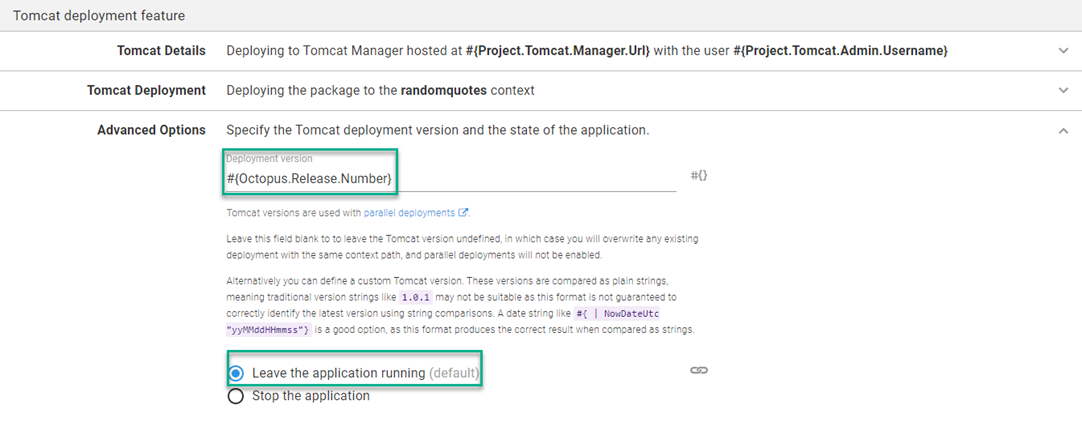
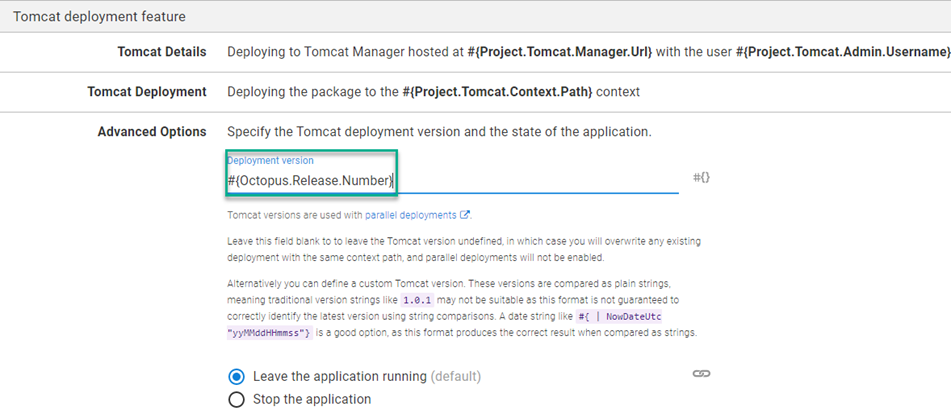
Updated guide.

diff --git a/docs/deployments/patterns/rollbacks/tomcat/index.md b/docs/deployments/patterns/rollbacks/tomcat/index.md
@@ -4,72 +4,76 @@ description: This guide covers the topic of rolling back an application deployed
 position: 10
 hideInThisSectionHeader: true
 ---
-In Tomcat v7, Apache included the ability to do [parallel deployments](https://tomcat.apache.org/tomcat-9.0-doc/config/context.html#Parallel_deployment) which allows you to deploy multiple versions of the same application on a Tomcat server.  This feature will redirect new traffic to the new version of the application allowing existing sessions to expire and naturally flow to the new version.  This functionality is ideally suited for supporting rollback scenarios when deploying to Tomcat.
+This guide will walk through rolling back a Java application deployed to a Tomcat web server.  We will be using the [PetClinic](https://bitbucket.org/octopussamples/petclinic/src/master/) Spring Boot example.  The application consists of two components:
 
-## Configuring an application rollback for Tomcat
-The following guide will configure a code rollback for the Random Quotes application.  The deployment process will consist of the following steps:
-- Calculate Deployment Mode
-- Rollback reason
-- Deploy Random Quotes to Tomcat
-- Start App in Tomcat
-- Stop App in Tomcat
-- Block Release Progression
+- Database
+- Website
+
+Rolling back the database is out of scope for this guide.  This [article](https://octopus.com/blog/database-rollbacks-pitfalls) describes reasons and scenarios in which rolling back a database could result in data loss or incorrect data.  This guide assumes that there are not database changes or the changes are backwards compatible.
+
+## Parallel deployments in Apache Tomcat
+In Tomcat v7, Apache included the ability to do [parallel deployments](https://tomcat.apache.org/tomcat-9.0-doc/config/context.html#Parallel_deployment) which allows you to deploy multiple versions of the same application to a Tomcat server.  When a version number is provided, Tomcat combines it with the context path to rename the `.war` to `<contextpath>##<version>.war`.  Once the new version is in a running state, Tomcat will redirect new sessions to the new version of the application allowing existing sessions to expire and flow to the new version.  This functionality is ideally suited for supporting rollback scenarios when deploying to Tomcat.
 
 :::warning
-The rollback strategy described in this guide will not work if the [undeployOldVersions](https://tomcat.apache.org/tomcat-9.0-doc/config/host.html) feautre is enabled on Tomcat.
+The rollback strategy described in this guide will not work if the [undeployOldVersions](https://tomcat.apache.org/tomcat-9.0-doc/config/host.html) feature is enabled on Tomcat.
 :::
+
+## Existing deployment process
+For this guide, we'll start off with an existing deployment process for deploying the PetClinic application:
+
+1.  Create Database If Not Exists
+1.  Deploy Database Changes
+1.  Deploy PetClinic Web App
+1.  Verify Deployment
+1.  Notify Stakeholders
+
+![](octopus-original-deployment-process.png)
+
+## Zero Configuration Rollback
+When a release is created, Octopus Deploy snapshots the following items:
+- Deployment Process
+- Project Variables
+- Referenced Library Variables Sets
+- Package Versions
+
+The easiest way to roll back is to do the following:
+1. Find the release you want to deploy.
+1. Click **REDEPLOY** next to the environment you want to roll back.
+
+Redeployment of a release will execute the process exactly how it was when it was created.  For Tomcat, the package will be sent to the tentacle and extracted to a work folder.  Variable substitution will be performed on the extracted files, then the files are repackaged and sent over to Tomcat for deployment.
+
+:::hint
+If this works for your rollbacks, you can skip the rest of the guide.  The rest of the guide will detail how to skip specific steps and re-extracting packages.
+:::
+
+## Simple Rollback Process
+While doing a rollback can be an operational exercise, the most typical reason for a rollback is something is wrong with the release and you need back out the changes.  A bad release also needs to be [prevented from moving forward](/docs/releases/prevent-release-progression.md).
+
+The updated deployment process for a simple rollback would look like this:
+
+1. Calculate Deployment Mode
+1. Create Database If Not Exists (skip during rollback)
+1. Deploy Database Changes (skip during rollback)
+1. Deploy PetClinic Web App
+1. Verify Deployment
+1. Notify Stakeholders
+1. Block Release Progression
+
+![](octopus-simple-rollback-process.png)
 
 ### Calculate Deployment Mode
-The first step in your process is going to be determining what scenario you're working with.  The [Calculate Deployment Mode](https://library.octopus.com/step-templates/d166457a-1421-4731-b143-dd6766fb95d5/actiontemplate-calculate-deployment-mode) Community Step Template has been expressly created for this purpose by the Octopus Solutions team.  This template produces a set of [Output Variables](https://octopus.com/docs/deployments/custom-scripts/output-variables) that tell you what scenario has been detected.  In addition, the template produced output variables in [Variable Run Condition](https://octopus.com/docs/projects/steps/conditions) syntax that can be applied to subsequent steps.
-:::info
-The Calculate Deployment Mode step template requires no configuration or parameters.
-:::
+The first step in your process is going to be determining what scenario you're working with.  The [Calculate Deployment Mode](https://library.octopus.com/step-templates/d166457a-1421-4731-b143-dd6766fb95d5/actiontemplate-calculate-deployment-mode) Community Step Template has been expressly created for this purpose by the Octopus Solutions team.  This template produces a set of [Output Variables](https://octopus.com/docs/deployments/custom-scripts/output-variables) that tell you what scenario has been detected.  In addition, the template produces output variables in [Variable Run Condition](https://octopus.com/docs/projects/steps/conditions) syntax that can be applied to subsequent steps.
 
-### Rollback reason
-This is a [Manual Intervention](https://octopus.com/docs/projects/built-in-step-templates/manual-intervention-and-approvals) step which prompts the user for the reason they are rolling back.  The text entered is stored in an output variable which will be used in the Block Release Progression step further down the process.
-
-### Deploy Random Quotes to Tomcat Via Manager
-Octopus Deploy contains a built-in step to deploy to a Tomcat server using the Manager feature.  Under the `Advanced Options` section, you will find the place to specify the version number of the application as mentioned above.  When deployed, the step renames the the `.war` file to `<contextpath>##<version>.war` to allow multiple versions of the application.  In the following screenshot, you will see the Octpous variable of `#{Octopus.Release.Number}` being used for version number
-
-![](octopus-tomcat-advanced.png)
-
-The radio button at the bottom gives you the option to have this deployment be in a `Running` state or a `Stopped` state, the default is `Running`.
-
-For this guide, we only want the Deploy step to occur on a Deployment or a Redeployment.  The Calculate Deployment Mode step provides us with an output variable called `RunOnDeployOrRedeploy` that contains the correct statement for a variable run condition for this step.  Add the following as the value for the Varibale Run Condition on this step
-```
-#{Octopus.Action[Calculate Deployment Mode].Output.RunOnDeployOrRedeploy}
-```
-
-![](octopus-deploy-tomcat-run-condition.png)
-
-### Start App in Tomcat
-In addition to the deployment step, Octopus Deploy also has a `Start/Stop App in Tomcat` step.  With the exception of specifying a package, this step has nearly identical inputs to the deployment step, including the ability to specify the version number.
-
-This step is only required during a rollback scenario so you'll need to add the following to the Variable Run Condition
+### Skipping Database Steps
+The two database steps, `Create Database If Not Exists` and `Deploy Database Changes` should be skipped for a rollback scenario.  Rolling back database changes could result in data loss or interrupt testing operations.  To skip these steps, we'll use one of the Variable Run Condition output variables from Calculate Depoloyment Mode step:
 
 ```
-#{Octopus.Action[Calculate Deployment Mode].Output.RunOnRollback}
+#{Octopus.Action[Calculate Deployment Mode].Output.RunOnDeploy}
 ```
 
-Ensure that you've set the Depoloyment Versiuon to #{Octopus.Release.Number} to tell Tomcat to start the version that you're rolling back to.
+When looking at the deployment process from the Process tab, there isn't a quick way to determine under which conditions a step will be executed.  Using the `Notes` field for a step is an easy way to provide users information at a glance.
 
-### Stop App in Tomcat
-The parallel deployment feature in Tomcat uses the following rules to determine where to send traffic
-- If no session information is present in the request, use the latest version.
-- If session information is present in the request, check the session manager of each version for a matching session and if one is found, use that version.
-- If session information is present in the request but no matching session can be found, use the latest version.
-
-Reactivating an older version in Tomcat would not result in diverting traffic away from the version we're attempting to rollback to.  In this case, we need to configure the Start/Stop App in Tomcat to stop the current version and start serving the rolled back one.  Similar to the Start App in Tomcat step, you only want this step to run during a rollback scenario so we'll need to set the Variable Run Condition to
-
-```
-#{Octopus.Action[Calculate Deployment Mode].Output.RunOnRollback}
-```
-
-Octopus Deploy has a [System Variable](https://octopus.com/docs/projects/variables/system-variables) that can be used to identify the version that needs to be stopeed, `#{Octopus.Release.CurrentForEnvironment.Number}`.  This variable can be used for the version number for the Start/Stop App in Tomcat
-
-![](octopus-tomcat-stop-app.png)
-
-
+![](octopus-step-notes.png)
 
 ### Block Release Progression
 Rolling back usually means that there is something wrong with the release.  The [Block Release Progression](https://library.octopus.com/step-templates/78a182b3-5369-4e13-9292-b7f991295ad1/actiontemplate-block-release-progression) Community Step Template will set the Block flag on a release so it is prevented from being deployed to other environments.
@@ -85,11 +89,75 @@ Ensure to set the variable run condition to:
 #{Octopus.Action[Calculate Deployment Mode].Output.RunOnRollback}
 ```
 
-## What a rollback looks like
-When a rollback occurs, you should see something similar to this within Tomcat showing the older version is running and the newest version is not.
+## Complex Rollback Process
+In the simple rollback scenario, the `.war` file is redeployed, extracted, variable replacement is executed, the `.war` is repackages before finally being sent to the Tomcat server webapps location.  In cases where the `.war` is very large, the extraction and repackaging of the `.war` could take quite some time, making the rollback process lengthy.  This is where the parallel deployments feature of Tomcat can benefit us as all the processes have already occured during the initial deployment of that release.  
 
-![](tomcat-random-quotes-version.png)
+The new deployment process would look like this:
 
-Within Octopus, you will see that the version is now blocked from being deployed
+1. Calculate Deployment Mode
+1. Rollback reason (only during rollback)
+1. Create Database If Not Exists (skip during rollback)
+1. Deploy Database Changes (only during deploy or redeploy)
+1. Stop App in Tomcat (only when previous release exists)
+1. Deploy PetClinic Web App
+1. Start App in Tomcat (only during rollback)
+1. Verify deployment
+1. Notify Stakeholders
+1. Block Release Progression (only during rollback)
 
-![](octopus-release-blocked.png)
+![](octopus-complex-rollback-process.png)
+
+We'll go through the newly added and altered steps:
+
+### Rollback reason
+This is a [Manual Intervention](https://octopus.com/docs/projects/built-in-step-templates/manual-intervention-and-approvals) step which prompts the user for the reason they are rolling back.  The text entered is stored in an output variable which will be used in the Block Release Progression step further down the process.
+
+### Stop App in Tomcat
+Before we deploy a new version of our application we first must stop the existing one.  The Advanced Option section of the `Start/Stop App in Tomcat` step is where we specify which version of the application we're going to stop.  For this guide, the version is identified as the previous release number which is represented by the following variable
+
+```
+#{Octopus.Release.CurrentForEnvironment.Number}
+```
+
+We also need to set the radio button to `Stop` the application setting
+
+![](octopus-stop-application.png)
+
+This step will fail if there isn't a previous release to stop, so we'll need to add a run condition to only run when a previous release exists.  This can be represented by using the following run condition:
+
+```
+#{if Octopus.Release.CurrentForEnvironment.Number}True#{/if}
+```
+
+### Deploy PetClinic Web App
+To configure our deployment to work with the parallel deployment feature, we need to set the deployment version of our application.  This is done in the `Advanced Options` section of a `Deploy to Tomcat Via Manager` step.  In the following screenshot, you will see the Octpous variable of `#{Octopus.Release.Number}` being used for version number
+
+![](octopus-tomcat-advanced.png)
+
+The radio button at the bottom gives you the option to have this deployment be in a `Running` state or a `Stopped` state, the default is `Running`.
+
+For this guide, we only want the Deploy step to occur on a Deployment or a Redeployment.  The Calculate Deployment Mode step provides us with an output variable called `RunOnDeployOrRedeploy` that contains the correct statement for a variable run condition for this step.  Add the following as the value for the Varibale Run Condition on this step
+```
+#{Octopus.Action[Calculate Deployment Mode].Output.RunOnDeployOrRedeploy}
+```
+
+![](octopus-deploy-tomcat-run-condition.png)
+
+### Start App in Tomcat
+When executing the rollback, we'll need to start the previous version
+
+This step is only required during a rollback scenario so you'll need to add the following to the Variable Run Condition
+
+```
+#{Octopus.Action[Calculate Deployment Mode].Output.RunOnRollback}
+```
+
+### Block Release Progression
+The `Rollback Reason` step captures the reason for the rollback.  We can pass the text entered in this step to the `Reason` field of this step by using the following output variable
+
+```
+#{Octopus.Action[Rollback reason].Output.Manual.Notes}
+```
+
+## Choosing a rollback strategy
+Not all releases can or even should be rolled back.  In cases where the release contains a large amount of changes, the best strategy is to fix the issue(s) you've encountered and keep moving foward.  For this reason, it is our recommendation that you start off with the simple rollback strategy, moving to the complex if you determine that simple method doesn't suite your needs.
